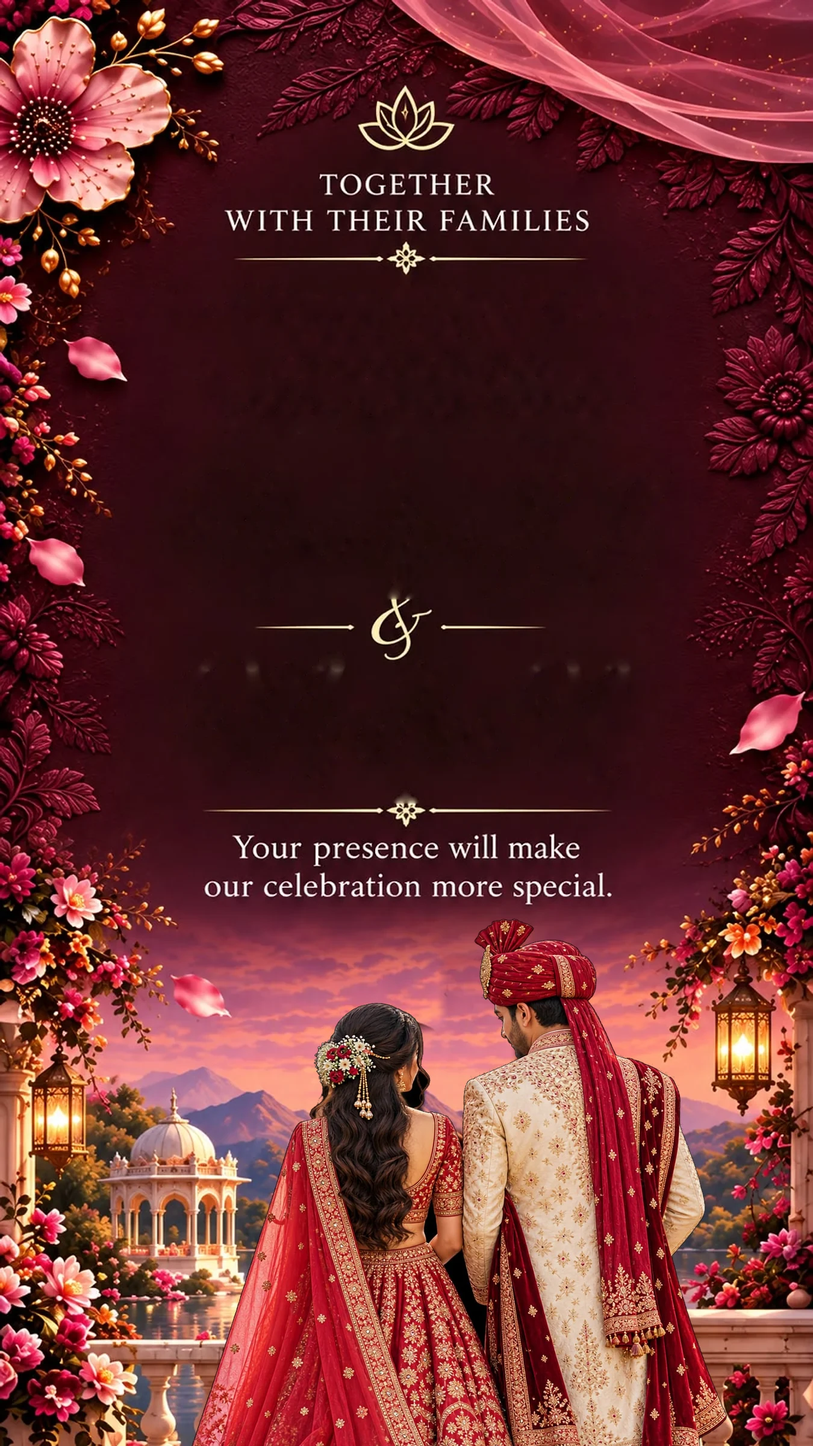
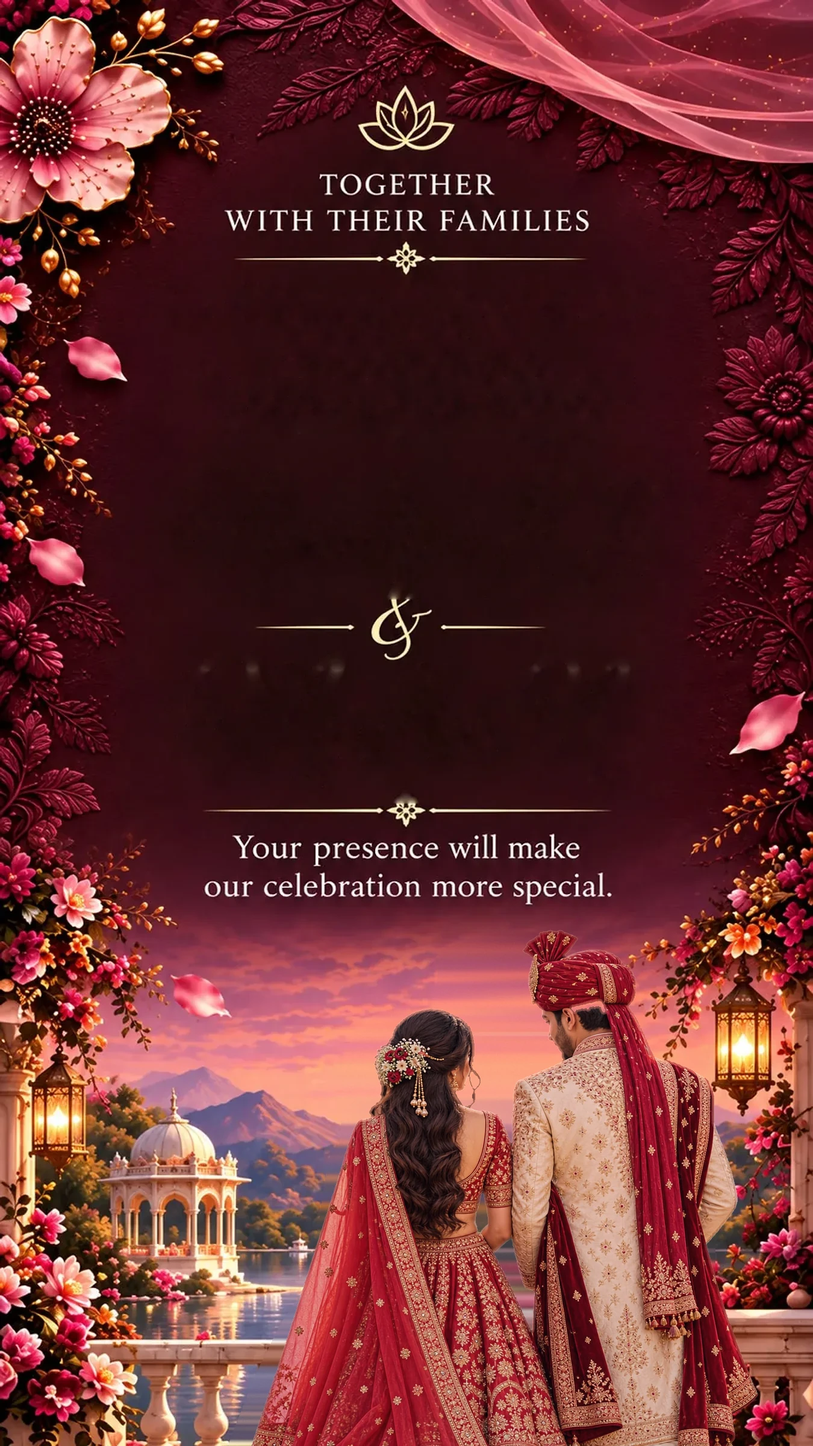
chanchal-jp-sharma-wedding: re-blend the Rajasthani couple into the opening page
The first version looked pasted on. Now (tools/rr-chanchal-hero.mjs):
- the illustrated couple is removed along a traced outline and the
  scene is carried across row by row, so the sky, hill line, lake and
  terrace railing continue behind the new couple; no patches, no ghosts
- every black background region of the client's cutout is removed,
  including the pocket between them; hair and embroidery untouched
- 1px dark fringe dropped, soft 1.6px edge, a warm sunset rim and a
  touch of light wrap from the scene, graded to the painting's light
Only couple-page.webp changes (now ?v=3); every other image, all text,
events, maps and music are identical.

Changed region(s): [[0.2178, 0.625, 0.9333, 1.0]]

diff --git a/public/chanchal-jp-sharma-wedding/index.html b/public/chanchal-jp-sharma-wedding/index.html
@@ -208,7 +208,7 @@ a{color:inherit}
 
 <main id="invite">
   <section class="plate" id="couple" aria-label="Invitation">
-    <img src="assets/couple-page.webp?v=2" alt="Together with their families. Your presence will make our celebration more special." width="1350" height="2400">
+    <img src="assets/couple-page.webp?v=3" alt="Together with their families. Your presence will make our celebration more special." width="1350" height="2400">
     <div class="slot serif rise" style="left:16.667%;top:20.625%;width:66.667%;height:9.375%;--fs:4.111cqw;"><span class="ln">request the pleasure of your company</span><span class="ln">at the wedding celebration of</span></div>
     <div class="slot script rise" style="left:12.222%;top:31.125%;width:75.556%;height:11.125%;--fs:16.667cqw;"><span class="ln">Chanchal Sharma</span></div>
     <div class="slot script rise" style="left:12.222%;top:44.750%;width:75.556%;height:11.125%;--fs:16.667cqw;"><span class="ln">JP Sharma</span></div>
